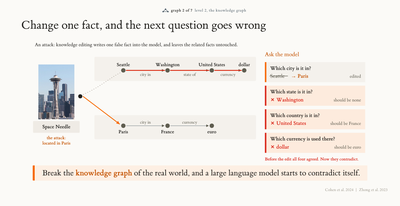
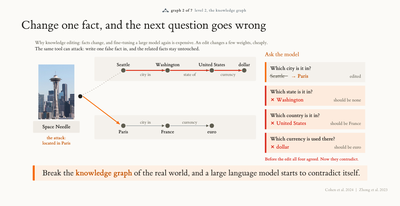
Slide 3: one line on why knowledge editing exists (cheap next to fine-tuning), then the attack
Claude-Session: https://claude.ai/code/session_01CwywQbHke1EKdwXqbCrAvs

Changed region(s): [[0.09, 0.2039, 0.66, 0.2621]]

diff --git a/graph-inside/2026-11-19-cs-colloquium/index.html b/graph-inside/2026-11-19-cs-colloquium/index.html
@@ -438,10 +438,10 @@ html,body,.reveal-viewport{background:#FBFAF7 !important}
 <section data-ch="0">
 <section data-ch="0">
   <h2>Change one fact, and the next question goes wrong</h2><span class="graphtag"><svg viewBox="0 0 22 14"><line x1="3" y1="11" x2="11" y2="3" stroke="currentColor" stroke-width="1.3"/><line x1="11" y1="3" x2="19" y2="11" stroke="currentColor" stroke-width="1.3"/><line x1="3" y1="11" x2="19" y2="11" stroke="currentColor" stroke-width="1.3"/><circle cx="3" cy="11" r="2.4" fill="currentColor"/><circle cx="11" cy="3" r="2.4" fill="currentColor"/><circle cx="19" cy="11" r="2.4" fill="currentColor"/></svg><b>graph 2 of 7</b> level 2, the knowledge graph</span>
-  <svg viewBox="0 0 1180 432" style="width:100%;max-width:1160px;height:auto;max-height:432px;display:block;margin:0 auto"><style>.reveal .k3d{stroke-dasharray:100;stroke-dashoffset:100}.reveal .fragment.visible .k3d{animation:k3draw 1.2s ease forwards .3s}@keyframes k3draw{to{stroke-dashoffset:0}}.reveal .k3old{animation:k3glow 1.4s ease-in-out infinite alternate}@keyframes k3glow{from{stroke-opacity:.35}to{stroke-opacity:1}}</style><style>.reveal .k3sw{transform-box:view-box;transform-origin:193px 200px;transition:transform 1.1s cubic-bezier(.5,0,.3,1)}.reveal .fragment.custom.visible .k3sw{transform:rotate(70.8deg) scale(1.046)}.reveal .k3col{transition:stroke 1.1s}.reveal .fragment.custom.visible .k3col{stroke:#F76902}.reveal .k3late{transition:opacity .5s ease 1.1s !important}</style><defs><marker id="k3a" viewBox="0 0 10 10" refX="8" refY="5" markerWidth="6" markerHeight="6" orient="auto-start-reverse"><path d="M0,0 L10,5 L0,10 z" fill="#5F5D50"/></marker><marker id="k3o" viewBox="0 0 10 10" refX="8" refY="5" markerWidth="6" markerHeight="6" orient="auto-start-reverse"><path d="M0,0 L10,5 L0,10 z" fill="#F76902"/></marker><marker id="k3t" viewBox="0 0 10 10" refX="8" refY="5" markerWidth="6" markerHeight="6" orient="auto-start-reverse"><path d="M0,0 L10,5 L0,10 z" fill="#4C5B66"/></marker><marker id="k3k" viewBox="0 0 10 10" refX="8" refY="5" markerWidth="6" markerHeight="6" orient="auto-start-reverse"><path d="M0,0 L10,5 L0,10 z" fill="#1F1E1B"/></marker><marker id="k3g" viewBox="0 0 10 10" refX="8" refY="5" markerWidth="6" markerHeight="6" orient="auto-start-reverse"><path d="M0,0 L10,5 L0,10 z" fill="#ACA39A"/></marker><radialGradient id="k3gl"><stop offset="0" stop-color="#F76902" stop-opacity=".5"/><stop offset="1" stop-color="#F76902" stop-opacity="0"/></radialGradient><radialGradient id="k3gt"><stop offset="0" stop-color="#4C5B66" stop-opacity=".45"/><stop offset="1" stop-color="#4C5B66" stop-opacity="0"/></radialGradient></defs><defs><marker id="axk" viewBox="0 0 10 10" refX="8" refY="5" markerWidth="5" markerHeight="5" orient="auto"><path d="M0,0 L10,5 L0,10 z" fill="#1F1E1B"/></marker></defs><text x="30" y="30" font-size="16.5" font-weight="400" fill="#1F1E1B" text-anchor="start" font-family="et-book,Georgia,serif" style="font-size-adjust:none">An attack: knowledge editing writes one false fact into the model, and leaves the related facts untouched.</text><image href="figs/space-needle-tall.jpg" x="40" y="92" width="126" height="186" preserveAspectRatio="xMidYMid meet" preserveAspectRatio="xMidYMid slice"/><rect x="24" y="284" width="158" height="40" rx="3" fill="#EFEBE5" stroke="none" stroke-width="0" /><text x="103" y="309" font-size="17.5" font-weight="600" fill="#1F1E1B" text-anchor="middle" >Space Needle</text><circle cx="184" cy="200" r="7" fill="#1F1E1B" stroke="none" stroke-width="1.5" /><rect x="232" y="66" width="548" height="82" rx="4" fill="#F4F1EC" stroke="none" stroke-width="0" /><path d="M340.0,112.0 L468.0,112.0" stroke="#7C878E" stroke-width="1.5" fill="none" marker-end="url(#k3a)" /><text x="405.0" y="131.0" font-size="14.5" font-weight="400" fill="#5F5D50" text-anchor="middle" >city in</text><path d="M490.0,112.0 L618.0,112.0" stroke="#7C878E" stroke-width="1.5" fill="none" marker-end="url(#k3a)" /><text x="555.0" y="131.0" font-size="14.5" font-weight="400" fill="#5F5D50" text-anchor="middle" >state of</text><path d="M640.0,112.0 L728.0,112.0" stroke="#7C878E" stroke-width="1.5" fill="none" marker-end="url(#k3a)" /><text x="685.0" y="131.0" font-size="14.5" font-weight="400" fill="#5F5D50" text-anchor="middle" >currency</text><circle cx="330" cy="112" r="7.5" fill="#5F5D50" stroke="none" stroke-width="1.5" /><text x="330" y="98" font-size="16.5" font-weight="600" fill="#1F1E1B" text-anchor="middle" >Seattle</text><circle cx="480" cy="112" r="7.5" fill="#5F5D50" stroke="none" stroke-width="1.5" /><text x="480" y="98" font-size="16.5" font-weight="600" fill="#1F1E1B" text-anchor="middle" >Washington</text><circle cx="630" cy="112" r="7.5" fill="#5F5D50" stroke="none" stroke-width="1.5" /><text x="630" y="98" font-size="16.5" font-weight="600" fill="#1F1E1B" text-anchor="middle" >United States</text><circle cx="740" cy="112" r="7.5" fill="#5F5D50" stroke="none" stroke-width="1.5" /><text x="740" y="98" font-size="16.5" font-weight="600" fill="#1F1E1B" text-anchor="middle" >dollar</text><rect x="232" y="264" width="548" height="82" rx="4" fill="#F4F1EC" stroke="none" stroke-width="0" /><path d="M340.0,300.0 L468.0,300.0" stroke="#7C878E" stroke-width="1.5" fill="none" marker-end="url(#k3a)" /><text x="405.0" y="293.0" font-size="14.5" font-weight="400" fill="#5F5D50" text-anchor="middle" >city in</text><path d="M490.0,300.0 L618.0,300.0" stroke="#7C878E" stroke-width="1.5" fill="none" marker-end="url(#k3a)" /><text x="555.0" y="293.0" font-size="14.5" font-weight="400" fill="#5F5D50" text-anchor="middle" >currency</text><circle cx="330" cy="300" r="7.5" fill="#5F5D50" stroke="none" stroke-width="1.5" /><text x="330" y="326" font-size="16.5" font-weight="600" fill="#1F1E1B" text-anchor="middle" >Paris</text><circle cx="480" cy="300" r="7.5" fill="#5F5D50" stroke="none" stroke-width="1.5" /><text x="480" y="326" font-size="16.5" font-weight="600" fill="#1F1E1B" text-anchor="middle" >France</text><circle cx="630" cy="300" r="7.5" fill="#5F5D50" stroke="none" stroke-width="1.5" /><text x="630" y="326" font-size="16.5" font-weight="600" fill="#1F1E1B" text-anchor="middle" >euro</text><g class="fragment custom" data-fragment-index="4"><g class="k3sw"><line class="k3col" x1="193" y1="200" x2="318.0" y2="117.0" stroke="#1F1E1B" stroke-width="2.5"/><path d="M318.0,117.0 l-11,-5 l0,10 Z" transform="rotate(-33.6 318.0 117.0)" fill="#F76902"/></g></g><g class="fragment fade-out" data-fragment-index="4"><text x="214" y="158" font-size="15" font-weight="600" fill="#1F1E1B" text-anchor="start" transform="rotate(-28 214 158)">located in</text></g><g class="fragment k3late" data-fragment-index="4"><text x="103" y="346" font-size="15.5" font-weight="600" fill="#C45200" text-anchor="middle" >the attack:</text><text x="103" y="364" font-size="15.5" font-weight="600" fill="#C45200" text-anchor="middle" >located in Paris</text><path d="M193,194 C250,170 280,140 320,120" stroke="#ACA39A" stroke-width="1.5" fill="none" stroke-dasharray="3 5"/></g><text x="810" y="64" font-size="20" font-weight="400" fill="#C45200" text-anchor="start" font-family="et-book,Georgia,serif" style="font-size-adjust:none">Ask the model</text><path d="M810,84 h340 v68 h-340 Z" fill="#F4F1EC"/><text x="828" y="110" font-size="18" font-weight="600" fill="#1F1E1B" text-anchor="start" >Which city is it in?</text><text x="828" y="137" font-size="18.5" font-weight="400" fill="#1F1E1B" text-anchor="start" >✓ Seattle</text><g class="fragment" data-fragment-index="1"><path d="M340,112 L470,112" stroke="#F76902" stroke-width="2.5" fill="none" stroke-linecap="round" fill="none"/><path d="M810,164 h340 v68 h-340 Z" fill="#F4F1EC"/><text x="828" y="190" font-size="18" font-weight="600" fill="#1F1E1B" text-anchor="start" >Which state is it in?</text><text x="828" y="217" font-size="18.5" font-weight="400" fill="#1F1E1B" text-anchor="start" >✓ Washington</text></g><g class="fragment" data-fragment-index="2"><path d="M490,112 L620,112" stroke="#F76902" stroke-width="2.5" fill="none" stroke-linecap="round" fill="none"/><path d="M810,244 h340 v68 h-340 Z" fill="#F4F1EC"/><text x="828" y="270" font-size="18" font-weight="600" fill="#1F1E1B" text-anchor="start" >Which country is it in?</text><text x="828" y="297" font-size="18.5" font-weight="400" fill="#1F1E1B" text-anchor="start" >✓ United States</text></g><g class="fragment" data-fragment-index="3"><path d="M640,112 L730,112" stroke="#F76902" stroke-width="2.5" fill="none" stroke-linecap="round" fill="none"/><path d="M810,324 h340 v68 h-340 Z" fill="#F4F1EC"/><text x="828" y="350" font-size="18" font-weight="600" fill="#1F1E1B" text-anchor="start" >Which currency is used there?</text><text x="828" y="377" font-size="18.5" font-weight="400" fill="#1F1E1B" text-anchor="start" >✓ dollar</text></g><g class="fragment k3late" data-fragment-index="4"><path d="M810,84 h340 v68 h-340 Z" fill="#F4F1EC"/><path d="M810,84 h5 v68 h-5 Z" fill="#F76902"/><text x="828" y="110" font-size="18" font-weight="600" fill="#1F1E1B" text-anchor="start" >Which city is it in?</text><text x="828" y="137" font-size="18.5" font-weight="400" fill="#5F5D50" text-anchor="start" >Seattle</text><line x1="826" y1="131" x2="888" y2="131" stroke="#5F5D50" stroke-width="1.6" /><text x="898" y="137" font-size="18.5" font-weight="600" fill="#C45200" text-anchor="start" >→ Paris</text><text x="1136" y="137" font-size="15.5" font-weight="400" fill="#5F5D50" text-anchor="end" >edited</text><path d="M340,112 L470,112" stroke="#DA291C" stroke-width="2.5" fill="none" stroke-linecap="round" fill="none"/><path d="M810,164 h340 v68 h-340 Z" fill="#FDEBDD"/><path d="M810,164 h5 v68 h-5 Z" fill="#DA291C"/><text x="828" y="190" font-size="18" font-weight="600" fill="#1F1E1B" text-anchor="start" >Which state is it in?</text><text x="828" y="217" font-size="18.5" font-weight="600" fill="#DA291C" text-anchor="start" >✗ Washington</text><text x="1136" y="217" font-size="15.5" font-weight="400" fill="#5F5D50" text-anchor="end" >should be none</text><path d="M490,112 L620,112" stroke="#DA291C" stroke-width="2.5" fill="none" stroke-linecap="round" fill="none"/><path d="M810,244 h340 v68 h-340 Z" fill="#FDEBDD"/><path d="M810,244 h5 v68 h-5 Z" fill="#DA291C"/><text x="828" y="270" font-size="18" font-weight="600" fill="#1F1E1B" text-anchor="start" >Which country is it in?</text><text x="828" y="297" font-size="18.5" font-weight="600" fill="#DA291C" text-anchor="start" >✗ United States</text><text x="1136" y="297" font-size="15.5" font-weight="400" fill="#5F5D50" text-anchor="end" >should be France</text><path d="M640,112 L730,112" stroke="#DA291C" stroke-width="2.5" fill="none" stroke-linecap="round" fill="none"/><path d="M810,324 h340 v68 h-340 Z" fill="#FDEBDD"/><path d="M810,324 h5 v68 h-5 Z" fill="#DA291C"/><text x="828" y="350" font-size="18" font-weight="600" fill="#1F1E1B" text-anchor="start" >Which currency is used there?</text><text x="828" y="377" font-size="18.5" font-weight="600" fill="#DA291C" text-anchor="start" >✗ dollar</text><text x="1136" y="377" font-size="15.5" font-weight="400" fill="#5F5D50" text-anchor="end" >should be euro</text></g><g data-nocap="1"></g><g class="fragment" data-fragment-index="5"><text x="810" y="418" font-size="15" font-weight="600" fill="#DA291C" text-anchor="start" >Before the edit all four agreed. Now they contradict.</text></g></svg>
+  <svg viewBox="0 0 1180 432" style="width:100%;max-width:1160px;height:auto;max-height:432px;display:block;margin:0 auto"><style>.reveal .k3d{stroke-dasharray:100;stroke-dashoffset:100}.reveal .fragment.visible .k3d{animation:k3draw 1.2s ease forwards .3s}@keyframes k3draw{to{stroke-dashoffset:0}}.reveal .k3old{animation:k3glow 1.4s ease-in-out infinite alternate}@keyframes k3glow{from{stroke-opacity:.35}to{stroke-opacity:1}}</style><style>.reveal .k3sw{transform-box:view-box;transform-origin:193px 200px;transition:transform 1.1s cubic-bezier(.5,0,.3,1)}.reveal .fragment.custom.visible .k3sw{transform:rotate(70.8deg) scale(1.046)}.reveal .k3col{transition:stroke 1.1s}.reveal .fragment.custom.visible .k3col{stroke:#F76902}.reveal .k3late{transition:opacity .5s ease 1.1s !important}</style><defs><marker id="k3a" viewBox="0 0 10 10" refX="8" refY="5" markerWidth="6" markerHeight="6" orient="auto-start-reverse"><path d="M0,0 L10,5 L0,10 z" fill="#5F5D50"/></marker><marker id="k3o" viewBox="0 0 10 10" refX="8" refY="5" markerWidth="6" markerHeight="6" orient="auto-start-reverse"><path d="M0,0 L10,5 L0,10 z" fill="#F76902"/></marker><marker id="k3t" viewBox="0 0 10 10" refX="8" refY="5" markerWidth="6" markerHeight="6" orient="auto-start-reverse"><path d="M0,0 L10,5 L0,10 z" fill="#4C5B66"/></marker><marker id="k3k" viewBox="0 0 10 10" refX="8" refY="5" markerWidth="6" markerHeight="6" orient="auto-start-reverse"><path d="M0,0 L10,5 L0,10 z" fill="#1F1E1B"/></marker><marker id="k3g" viewBox="0 0 10 10" refX="8" refY="5" markerWidth="6" markerHeight="6" orient="auto-start-reverse"><path d="M0,0 L10,5 L0,10 z" fill="#ACA39A"/></marker><radialGradient id="k3gl"><stop offset="0" stop-color="#F76902" stop-opacity=".5"/><stop offset="1" stop-color="#F76902" stop-opacity="0"/></radialGradient><radialGradient id="k3gt"><stop offset="0" stop-color="#4C5B66" stop-opacity=".45"/><stop offset="1" stop-color="#4C5B66" stop-opacity="0"/></radialGradient></defs><defs><marker id="axk" viewBox="0 0 10 10" refX="8" refY="5" markerWidth="5" markerHeight="5" orient="auto"><path d="M0,0 L10,5 L0,10 z" fill="#1F1E1B"/></marker></defs><text x="30" y="22" font-size="15.5" font-weight="400" fill="#5F5D50" text-anchor="start" font-family="et-book,Georgia,serif" style="font-size-adjust:none">Why knowledge editing: facts change, and fine-tuning a large model again is expensive. An edit changes a few weights, cheaply.</text><text x="30" y="44" font-size="16.5" font-weight="400" fill="#1F1E1B" text-anchor="start" font-family="et-book,Georgia,serif" style="font-size-adjust:none">The same tool can attack: write one false fact in, and the related facts stay untouched.</text><image href="figs/space-needle-tall.jpg" x="40" y="92" width="126" height="186" preserveAspectRatio="xMidYMid meet" preserveAspectRatio="xMidYMid slice"/><rect x="24" y="284" width="158" height="40" rx="3" fill="#EFEBE5" stroke="none" stroke-width="0" /><text x="103" y="309" font-size="17.5" font-weight="600" fill="#1F1E1B" text-anchor="middle" >Space Needle</text><circle cx="184" cy="200" r="7" fill="#1F1E1B" stroke="none" stroke-width="1.5" /><rect x="232" y="66" width="548" height="82" rx="4" fill="#F4F1EC" stroke="none" stroke-width="0" /><path d="M340.0,112.0 L468.0,112.0" stroke="#7C878E" stroke-width="1.5" fill="none" marker-end="url(#k3a)" /><text x="405.0" y="131.0" font-size="14.5" font-weight="400" fill="#5F5D50" text-anchor="middle" >city in</text><path d="M490.0,112.0 L618.0,112.0" stroke="#7C878E" stroke-width="1.5" fill="none" marker-end="url(#k3a)" /><text x="555.0" y="131.0" font-size="14.5" font-weight="400" fill="#5F5D50" text-anchor="middle" >state of</text><path d="M640.0,112.0 L728.0,112.0" stroke="#7C878E" stroke-width="1.5" fill="none" marker-end="url(#k3a)" /><text x="685.0" y="131.0" font-size="14.5" font-weight="400" fill="#5F5D50" text-anchor="middle" >currency</text><circle cx="330" cy="112" r="7.5" fill="#5F5D50" stroke="none" stroke-width="1.5" /><text x="330" y="98" font-size="16.5" font-weight="600" fill="#1F1E1B" text-anchor="middle" >Seattle</text><circle cx="480" cy="112" r="7.5" fill="#5F5D50" stroke="none" stroke-width="1.5" /><text x="480" y="98" font-size="16.5" font-weight="600" fill="#1F1E1B" text-anchor="middle" >Washington</text><circle cx="630" cy="112" r="7.5" fill="#5F5D50" stroke="none" stroke-width="1.5" /><text x="630" y="98" font-size="16.5" font-weight="600" fill="#1F1E1B" text-anchor="middle" >United States</text><circle cx="740" cy="112" r="7.5" fill="#5F5D50" stroke="none" stroke-width="1.5" /><text x="740" y="98" font-size="16.5" font-weight="600" fill="#1F1E1B" text-anchor="middle" >dollar</text><rect x="232" y="264" width="548" height="82" rx="4" fill="#F4F1EC" stroke="none" stroke-width="0" /><path d="M340.0,300.0 L468.0,300.0" stroke="#7C878E" stroke-width="1.5" fill="none" marker-end="url(#k3a)" /><text x="405.0" y="293.0" font-size="14.5" font-weight="400" fill="#5F5D50" text-anchor="middle" >city in</text><path d="M490.0,300.0 L618.0,300.0" stroke="#7C878E" stroke-width="1.5" fill="none" marker-end="url(#k3a)" /><text x="555.0" y="293.0" font-size="14.5" font-weight="400" fill="#5F5D50" text-anchor="middle" >currency</text><circle cx="330" cy="300" r="7.5" fill="#5F5D50" stroke="none" stroke-width="1.5" /><text x="330" y="326" font-size="16.5" font-weight="600" fill="#1F1E1B" text-anchor="middle" >Paris</text><circle cx="480" cy="300" r="7.5" fill="#5F5D50" stroke="none" stroke-width="1.5" /><text x="480" y="326" font-size="16.5" font-weight="600" fill="#1F1E1B" text-anchor="middle" >France</text><circle cx="630" cy="300" r="7.5" fill="#5F5D50" stroke="none" stroke-width="1.5" /><text x="630" y="326" font-size="16.5" font-weight="600" fill="#1F1E1B" text-anchor="middle" >euro</text><g class="fragment custom" data-fragment-index="4"><g class="k3sw"><line class="k3col" x1="193" y1="200" x2="318.0" y2="117.0" stroke="#1F1E1B" stroke-width="2.5"/><path d="M318.0,117.0 l-11,-5 l0,10 Z" transform="rotate(-33.6 318.0 117.0)" fill="#F76902"/></g></g><g class="fragment fade-out" data-fragment-index="4"><text x="214" y="158" font-size="15" font-weight="600" fill="#1F1E1B" text-anchor="start" transform="rotate(-28 214 158)">located in</text></g><g class="fragment k3late" data-fragment-index="4"><text x="103" y="346" font-size="15.5" font-weight="600" fill="#C45200" text-anchor="middle" >the attack:</text><text x="103" y="364" font-size="15.5" font-weight="600" fill="#C45200" text-anchor="middle" >located in Paris</text><path d="M193,194 C250,170 280,140 320,120" stroke="#ACA39A" stroke-width="1.5" fill="none" stroke-dasharray="3 5"/></g><text x="810" y="64" font-size="20" font-weight="400" fill="#C45200" text-anchor="start" font-family="et-book,Georgia,serif" style="font-size-adjust:none">Ask the model</text><path d="M810,84 h340 v68 h-340 Z" fill="#F4F1EC"/><text x="828" y="110" font-size="18" font-weight="600" fill="#1F1E1B" text-anchor="start" >Which city is it in?</text><text x="828" y="137" font-size="18.5" font-weight="400" fill="#1F1E1B" text-anchor="start" >✓ Seattle</text><g class="fragment" data-fragment-index="1"><path d="M340,112 L470,112" stroke="#F76902" stroke-width="2.5" fill="none" stroke-linecap="round" fill="none"/><path d="M810,164 h340 v68 h-340 Z" fill="#F4F1EC"/><text x="828" y="190" font-size="18" font-weight="600" fill="#1F1E1B" text-anchor="start" >Which state is it in?</text><text x="828" y="217" font-size="18.5" font-weight="400" fill="#1F1E1B" text-anchor="start" >✓ Washington</text></g><g class="fragment" data-fragment-index="2"><path d="M490,112 L620,112" stroke="#F76902" stroke-width="2.5" fill="none" stroke-linecap="round" fill="none"/><path d="M810,244 h340 v68 h-340 Z" fill="#F4F1EC"/><text x="828" y="270" font-size="18" font-weight="600" fill="#1F1E1B" text-anchor="start" >Which country is it in?</text><text x="828" y="297" font-size="18.5" font-weight="400" fill="#1F1E1B" text-anchor="start" >✓ United States</text></g><g class="fragment" data-fragment-index="3"><path d="M640,112 L730,112" stroke="#F76902" stroke-width="2.5" fill="none" stroke-linecap="round" fill="none"/><path d="M810,324 h340 v68 h-340 Z" fill="#F4F1EC"/><text x="828" y="350" font-size="18" font-weight="600" fill="#1F1E1B" text-anchor="start" >Which currency is used there?</text><text x="828" y="377" font-size="18.5" font-weight="400" fill="#1F1E1B" text-anchor="start" >✓ dollar</text></g><g class="fragment k3late" data-fragment-index="4"><path d="M810,84 h340 v68 h-340 Z" fill="#F4F1EC"/><path d="M810,84 h5 v68 h-5 Z" fill="#F76902"/><text x="828" y="110" font-size="18" font-weight="600" fill="#1F1E1B" text-anchor="start" >Which city is it in?</text><text x="828" y="137" font-size="18.5" font-weight="400" fill="#5F5D50" text-anchor="start" >Seattle</text><line x1="826" y1="131" x2="888" y2="131" stroke="#5F5D50" stroke-width="1.6" /><text x="898" y="137" font-size="18.5" font-weight="600" fill="#C45200" text-anchor="start" >→ Paris</text><text x="1136" y="137" font-size="15.5" font-weight="400" fill="#5F5D50" text-anchor="end" >edited</text><path d="M340,112 L470,112" stroke="#DA291C" stroke-width="2.5" fill="none" stroke-linecap="round" fill="none"/><path d="M810,164 h340 v68 h-340 Z" fill="#FDEBDD"/><path d="M810,164 h5 v68 h-5 Z" fill="#DA291C"/><text x="828" y="190" font-size="18" font-weight="600" fill="#1F1E1B" text-anchor="start" >Which state is it in?</text><text x="828" y="217" font-size="18.5" font-weight="600" fill="#DA291C" text-anchor="start" >✗ Washington</text><text x="1136" y="217" font-size="15.5" font-weight="400" fill="#5F5D50" text-anchor="end" >should be none</text><path d="M490,112 L620,112" stroke="#DA291C" stroke-width="2.5" fill="none" stroke-linecap="round" fill="none"/><path d="M810,244 h340 v68 h-340 Z" fill="#FDEBDD"/><path d="M810,244 h5 v68 h-5 Z" fill="#DA291C"/><text x="828" y="270" font-size="18" font-weight="600" fill="#1F1E1B" text-anchor="start" >Which country is it in?</text><text x="828" y="297" font-size="18.5" font-weight="600" fill="#DA291C" text-anchor="start" >✗ United States</text><text x="1136" y="297" font-size="15.5" font-weight="400" fill="#5F5D50" text-anchor="end" >should be France</text><path d="M640,112 L730,112" stroke="#DA291C" stroke-width="2.5" fill="none" stroke-linecap="round" fill="none"/><path d="M810,324 h340 v68 h-340 Z" fill="#FDEBDD"/><path d="M810,324 h5 v68 h-5 Z" fill="#DA291C"/><text x="828" y="350" font-size="18" font-weight="600" fill="#1F1E1B" text-anchor="start" >Which currency is used there?</text><text x="828" y="377" font-size="18.5" font-weight="600" fill="#DA291C" text-anchor="start" >✗ dollar</text><text x="1136" y="377" font-size="15.5" font-weight="400" fill="#5F5D50" text-anchor="end" >should be euro</text></g><g data-nocap="1"></g><g class="fragment" data-fragment-index="5"><text x="810" y="418" font-size="15" font-weight="600" fill="#DA291C" text-anchor="start" >Before the edit all four agreed. Now they contradict.</text></g></svg>
   <p class="fragment" data-fragment-index="5" style="text-align:center;margin:.1em 1.1em 0"><span style="display:inline-block;background:#FDEFE3;border-left:7px solid #F76902;border-radius:3px;padding:.32em 1em;font-family:et-book,Georgia,serif;font-size:.84em;color:#1F1E1B;line-height:1.35">Break the <b style="color:#C45200;font-weight:700">knowledge graph</b> of the real world, and a large language model starts to contradict itself.</span></p>
   <div class="ref"><a href="https://scholar.google.com/scholar?q=Cohen+et+al.%2C+Evaluating+the+Ripple+Effects+of+Knowledge+Editing+in+Language+Models%2C+TACL+2024" target="_blank" rel="noopener" title="Cohen et al., Evaluating the Ripple Effects of Knowledge Editing in Language Models, TACL 2024">Cohen et al. 2024</a><span class="rsep" aria-hidden="true"></span><a href="https://scholar.google.com/scholar?q=Zhong+et+al.%2C+MQuAKE%2C+EMNLP+2023" target="_blank" rel="noopener" title="Zhong et al., MQuAKE, EMNLP 2023">Zhong et al. 2023</a></div>
-  <aside class="notes">Same photo as the slide before. Two small knowledge graphs: on top Seattle, Washington, the United States, the dollar, below Paris, France, the euro. The Space Needle points up: located in Seattle. On the right, ask the model: which city? Seattle. Click: city in, Seattle to Washington lights up, which state? Washington. Click: state of, which country? United States. Click: currency, which currency? dollar. Each question is one more hop on the graph. Click: an attack. Knowledge editing is a tool to fix a wrong fact, but the same tool can write a false one in, here that the Space Needle is in Paris. Watch the arrow swing from Seattle down to Paris. Methods like ROME and MEMIT do this by adding a small change to some weights. The first answer changes to Paris, and the other three do not: still Washington, still United States, still dollar. The red path on top is what the model still walks. Click: the key statement. Break the knowledge graph of the real world, and a large language model starts to contradict itself. The edit changed one edge and never looked at the graph around it. The next slide asks our question. This is the ripple effect measured by RippleEdits and MQuAKE. Photo: Kerry Park panorama by SounderBruce, CC BY-SA 4.0. Bridge: back to the network itself, with this in mind.</aside>
+  <aside class="notes">Same photo as the slide before. Two small knowledge graphs: on top Seattle, Washington, the United States, the dollar, below Paris, France, the euro. The Space Needle points up: located in Seattle. On the right, ask the model: which city? Seattle. Click: city in, Seattle to Washington lights up, which state? Washington. Click: state of, which country? United States. Click: currency, which currency? dollar. Each question is one more hop on the graph. Click: an attack. First why knowledge editing exists: facts change all the time, and fine-tuning a large model on new data again and again is expensive. Knowledge editing changes one fact by changing a few weights, cheaply. But the same tool can write a false fact in, here that the Space Needle is in Paris. Watch the arrow swing from Seattle down to Paris. Methods like ROME and MEMIT do this by adding a small change to some weights. The first answer changes to Paris, and the other three do not: still Washington, still United States, still dollar. The red path on top is what the model still walks. Click: the key statement. Break the knowledge graph of the real world, and a large language model starts to contradict itself. The edit changed one edge and never looked at the graph around it. The next slide asks our question. This is the ripple effect measured by RippleEdits and MQuAKE. Photo: Kerry Park panorama by SounderBruce, CC BY-SA 4.0. Bridge: back to the network itself, with this in mind.</aside>
 </section>
 <section class="backup " data-ch="0">
   <h2>Change one fact, and the next question goes wrong</h2><span class="status plan">Backup</span>

diff --git a/graph-inside/2026-11-19-cs-colloquium/src/talk.py b/graph-inside/2026-11-19-cs-colloquium/src/talk.py
@@ -2394,7 +2394,8 @@ SER3 = 'font-family="et-book,Georgia,serif" style="font-size-adjust:none"'
 K3_CSS = ('<style>.reveal .k3d{stroke-dasharray:100;stroke-dashoffset:100}.reveal .fragment.visible .k3d{animation:k3draw 1.2s ease forwards .3s}'
           '@keyframes k3draw{to{stroke-dashoffset:0}}'
           '.reveal .k3old{animation:k3glow 1.4s ease-in-out infinite alternate}@keyframes k3glow{from{stroke-opacity:.35}to{stroke-opacity:1}}</style>')
-g += T(30, 30, 'An attack: knowledge editing writes one false fact into the model, and leaves the related facts untouched.', 16.5, 400, INK, extra=SER3)
+g += T(30, 22, 'Why knowledge editing: facts change, and fine-tuning a large model again is expensive. An edit changes a few weights, cheaply.', 15.5, 400, MUT, extra=SER3)
+g += T(30, 44, 'The same tool can attack: write one false fact in, and the related facts stay untouched.', 16.5, 400, INK, extra=SER3)
 # the Space Needle, as on slide 2
 g += img(40, 92, 126, 186, 'figs/space-needle-tall.jpg', 'preserveAspectRatio="xMidYMid slice"') + R(24, 284, 158, 40, '#EFEBE5', 'none', 0, 6) + T(103, 309, 'Space Needle', 16, 600, INK, 'middle')
 SN = (184, 200)
@@ -2468,7 +2469,7 @@ g = SW_CSS + g
 g = K3_CSS + g
 KGT3 = sec('Change one fact, and the next question goes wrong', SVG(g, 432), ch='0',
            ref='Cohen et al., Evaluating the Ripple Effects of Knowledge Editing in Language Models, TACL 2024. Zhong et al., MQuAKE, EMNLP 2023. The answers illustrate the failure type',
-           notes='Same photo as the slide before. Two small knowledge graphs: on top Seattle, Washington, the United States, the dollar, below Paris, France, the euro. The Space Needle points up: located in Seattle. On the right, ask the model: which city? Seattle. Click: city in, Seattle to Washington lights up, which state? Washington. Click: state of, which country? United States. Click: currency, which currency? dollar. Each question is one more hop on the graph. Click: an attack. Knowledge editing is a tool to fix a wrong fact, but the same tool can write a false one in, here that the Space Needle is in Paris. Watch the arrow swing from Seattle down to Paris. Methods like ROME and MEMIT do this by adding a small change to some weights. The first answer changes to Paris, and the other three do not: still Washington, still United States, still dollar. The red path on top is what the model still walks. Click: the key statement. Break the knowledge graph of the real world, and a large language model starts to contradict itself. The edit changed one edge and never looked at the graph around it. The next slide asks our question. This is the ripple effect measured by RippleEdits and MQuAKE. Photo: Kerry Park panorama by SounderBruce, CC BY-SA 4.0.')
+           notes='Same photo as the slide before. Two small knowledge graphs: on top Seattle, Washington, the United States, the dollar, below Paris, France, the euro. The Space Needle points up: located in Seattle. On the right, ask the model: which city? Seattle. Click: city in, Seattle to Washington lights up, which state? Washington. Click: state of, which country? United States. Click: currency, which currency? dollar. Each question is one more hop on the graph. Click: an attack. First why knowledge editing exists: facts change all the time, and fine-tuning a large model on new data again and again is expensive. Knowledge editing changes one fact by changing a few weights, cheaply. But the same tool can write a false fact in, here that the Space Needle is in Paris. Watch the arrow swing from Seattle down to Paris. Methods like ROME and MEMIT do this by adding a small change to some weights. The first answer changes to Paris, and the other three do not: still Washington, still United States, still dollar. The red path on top is what the model still walks. Click: the key statement. Break the knowledge graph of the real world, and a large language model starts to contradict itself. The edit changed one edge and never looked at the graph around it. The next slide asks our question. This is the ripple effect measured by RippleEdits and MQuAKE. Photo: Kerry Park panorama by SounderBruce, CC BY-SA 4.0.')
 
 # ---- the one style for a question or a key point (his rule Nov 18): an orange frame, plain text, keywords on a tint ----
 def kw(t):

diff --git a/graph-inside/2026-11-19-cs-colloquium/docs/storyline-zh.md b/graph-inside/2026-11-19-cs-colloquium/docs/storyline-zh.md
@@ -46,7 +46,7 @@
 说："The answer is a distribution, yet much of what a model says is held in place by strong, stored structure, closer to a graph than to a coin."
 
 **3. Change one fact, and the next question goes wrong**（120，graph 2）左边 Space Needle 照片，中间两个小知识图（上：Seattle、Washington、United States、dollar。下：Paris、France、euro）。右边四个问题一开始就在，编辑前四个答案都对、彼此一致。点一下：箭头从 Seattle 摆到 Paris，同时右边更新，第一个问题变成 Paris，其他三个没变，于是互相矛盾，标红，上面的旧路径变红。再点："One answer fixed. Every other question still walks the old graph." 最后一下抛出研究问题："is there a link between the circuit graph of the model and this knowledge graph?"
-这是一个攻击的例子：知识编辑本来用来修正错误的事实，同一个工具也能把假事实写进模型，这里写的是 Space Needle 在巴黎。左边标签写 the attack: located in Paris，顶部一行写 An attack: knowledge editing writes one false fact into the model, and leaves the related facts untouched.
+顶部第一行（灰）：为什么需要知识编辑。事实经常变，每次都重新 fine-tune 大模型很贵，知识编辑只改少量权重，很便宜。第二行：同一个工具也能拿来攻击。这是一个攻击的例子：知识编辑本来用来修正错误的事实，同一个工具也能把假事实写进模型，这里写的是 Space Needle 在巴黎。左边标签写 the attack: located in Paris，顶部一行写 An attack: knowledge editing writes one false fact into the model, and leaves the related facts untouched.
 动画顺序：进来时只有图和第一个问题（城市，✓ Seattle）。点一下，Seattle 到 Washington 的边亮起来（橙色），出现第二个问题（州，✓ Washington）。再点，Washington 到 United States 亮，出现国家问题。再点，United States 到 dollar 亮，出现货币问题。再点：攻击，箭头摆到 Paris，城市变成 Paris，其他三个一起变成红叉，上面的路径变红。最后一下：Before the edit all four agreed. Now they contradict. 加结论框。
 说："Before the edit, all four agreed. After it, a Space Needle in Paris, in the United States, in Washington, paid in dollars. The edit changed one edge and never looked at the graph around it."
 
